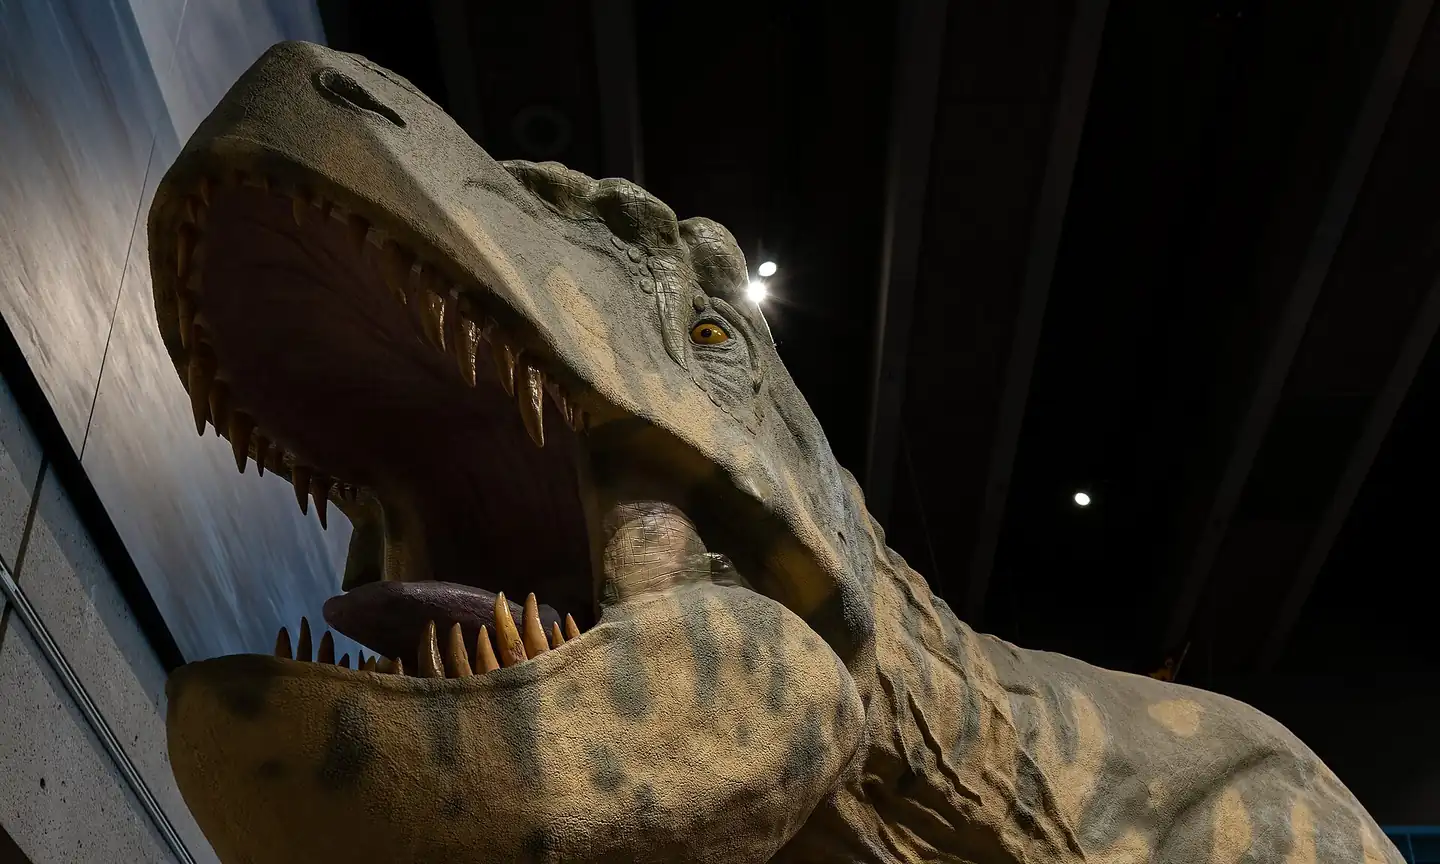
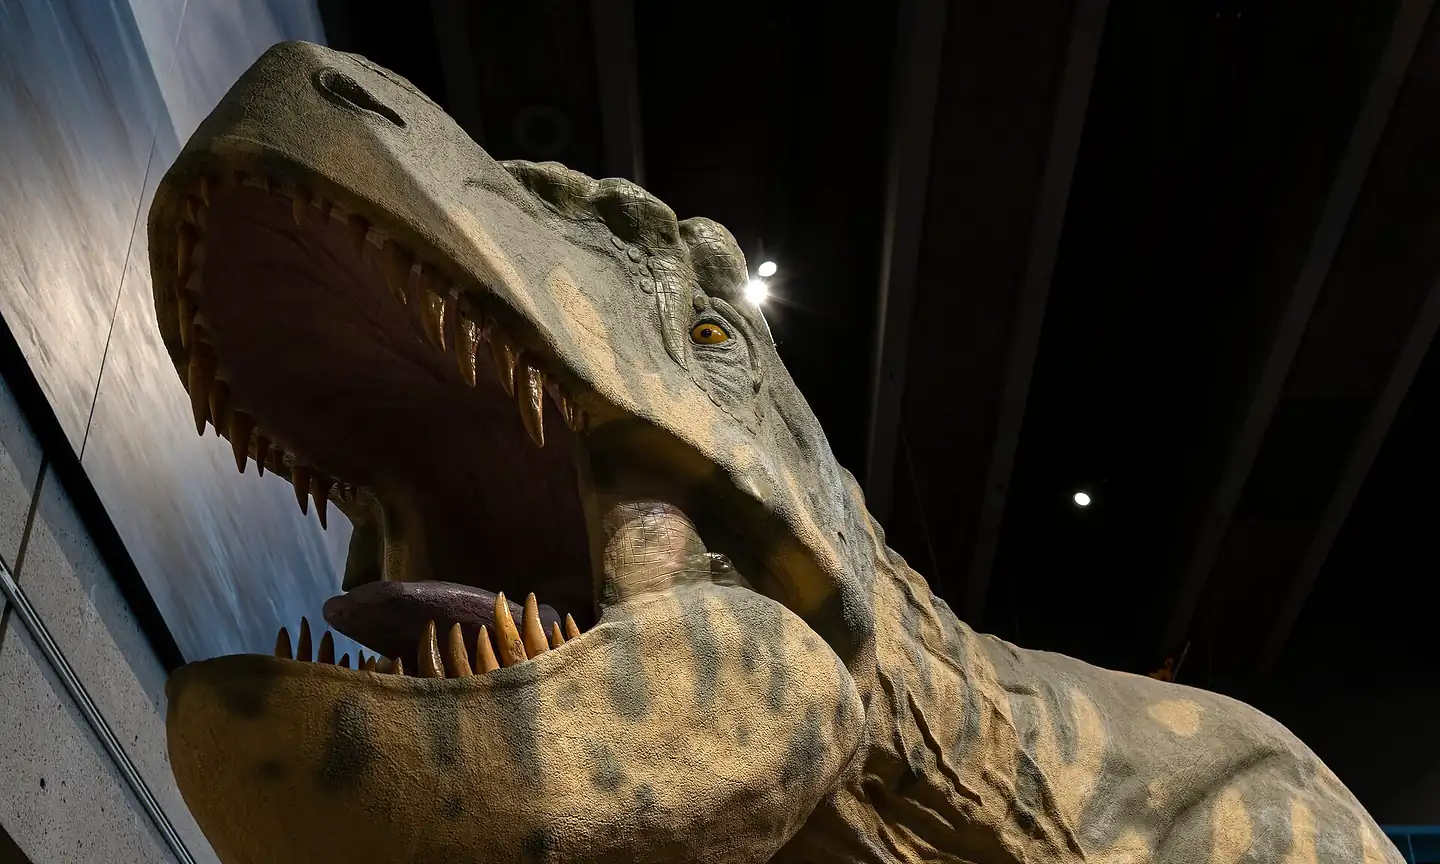
Q21: Boston itinerary hero brightened and reframed at 1280 (persona P2)
Claude-Session: https://claude.ai/code/session_018uWk6vaZ3kaC9EGYTQ5Cad

diff --git a/site/family-itinerary/boston-with-kids.html b/site/family-itinerary/boston-with-kids.html
@@ -37,7 +37,7 @@
       </section>
       <section class="container media-section hero-photo-section">
         <figure class="licensed-photo hero-photo">
-          <img src="../images/boston-museum-of-science-t-rex-2022.webp" style="object-position:50% 15%" width="1440" height="864" loading="eager" fetchpriority="high" decoding="async" alt="A large Tyrannosaurus rex model with its mouth open, seen from below inside the Museum of Science, Boston.">
+          <img src="../images/boston-museum-of-science-t-rex-2022.webp" style="object-position:50% 24%" width="1440" height="864" loading="eager" fetchpriority="high" decoding="async" alt="A large Tyrannosaurus rex model with its mouth open, seen from below inside the Museum of Science, Boston.">
           <figcaption>The Museum of Science's T. rex model, where Day 1 starts, July 2022 (an older photo). Photo: Jules Verne Times Two / <a href="http://julesvernex2.com">julesvernex2.com</a> / <a href="https://creativecommons.org/licenses/by-sa/4.0/deed.en">CC-BY-SA-4.0</a>, via <a href="https://commons.wikimedia.org/wiki/File:Tyrannosaurus_model,_Museum_of_Science,_Boston,_Massachusetts,_US_(PPL1-Corrected)_julesvernex2.jpg">Wikimedia Commons</a>. Resized and cropped.</figcaption>
         </figure>
       </section>

diff --git a/docs/research/boston-itinerary-hero-photo-2026-11-08.md b/docs/research/boston-itinerary-hero-photo-2026-11-08.md
@@ -4,7 +4,7 @@
 |---|---|---|
 | commons File:Tyrannosaurus_model,_Museum_of_Science,_Boston,_Massachusetts,_US_(PPL1-Corrected)_julesvernex2.jpg | "Tyrannosaurus model, Museum of Science, Boston"; taken 2022-07-16; own work by Jules Verne Times Two; {{Cc-by-sa-4.0}}; credit template Julesvernex2Credit asks online use to show "Photo: Jules Verne Times Two / julesvernex2.com / CC-BY-SA-4.0" visibly, linked to the licence; original 4,160 × 4,712 | new hero, family-itinerary/boston-with-kids.html (was the Boston skyline, still on the Boston family hotels page and privacy page) |
 
-Licence, date and credit wording read from the file page and template wikitext (action=raw); original size from the file page. Candidates found with Commons Special:Search (namespace File); downloaded once as a 1920 px thumb through Special:Redirect, cropped 5:3 from the top (y 170), resized to 1440 × 864 (WebP q56, 96 KB); lock written by hand. Banner object-position 50% 15% (head, eye and teeth visible at 1280; full jaw at 390). Link-preview card rendered with `node tools/page-og-images.mjs --only=images/og/photos/boston-museum-of-science-t-rex-2022.jpg`.
+Licence, date and credit wording read from the file page and template wikitext (action=raw); original size from the file page. Candidates found with Commons Special:Search (namespace File); downloaded once as a 1920 px thumb through Special:Redirect, cropped 5:3 from the top (y 170), resized to 1440 × 864 (brightness +18%, WebP q56, 107 KB); lock written by hand. Banner object-position 50% 24% (head, eye and teeth visible at 1280; full jaw at 390). Link-preview card rendered with `node tools/page-og-images.mjs --only=images/og/photos/boston-museum-of-science-t-rex-2022.jpg`.
 
 Why this photo: Day 1 of the page is the Museum of Science, and a dinosaur reads "kids' museum" at a glance. No people in frame. The caption names the place, month and year and says it is an older photo; it makes no claim that the model is on display today, about size, crowds or exhibits. No official pages fetched, no spend.
 
